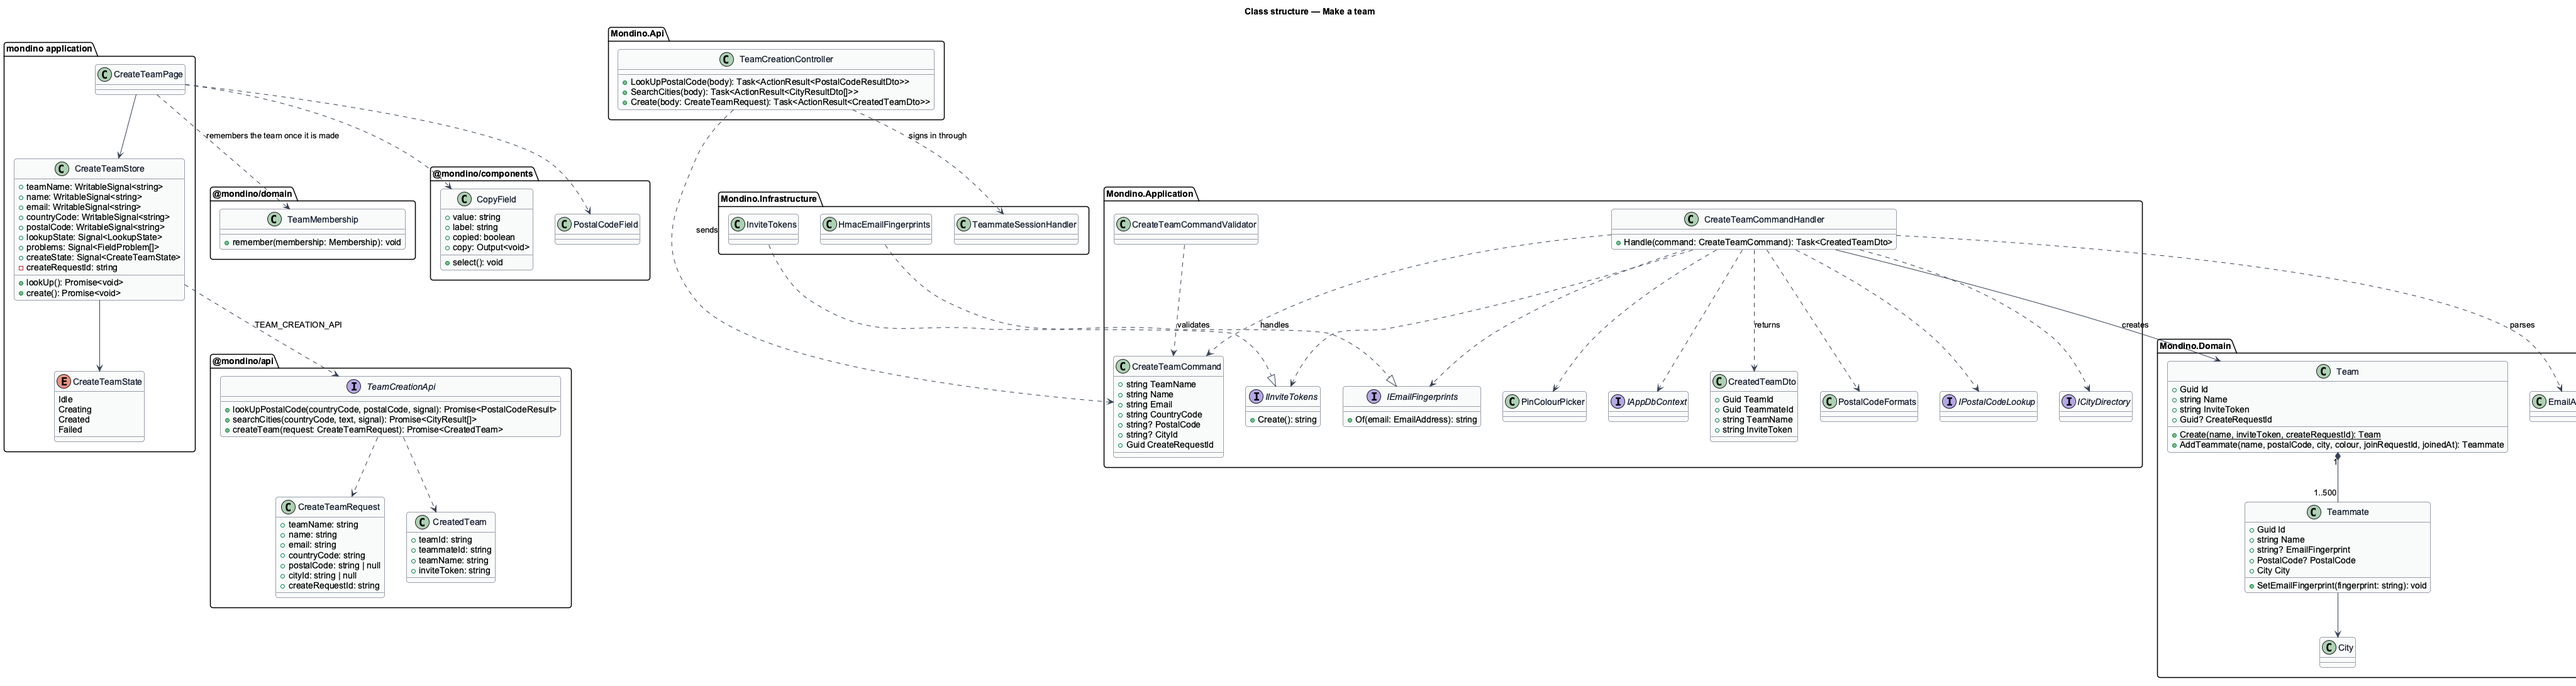
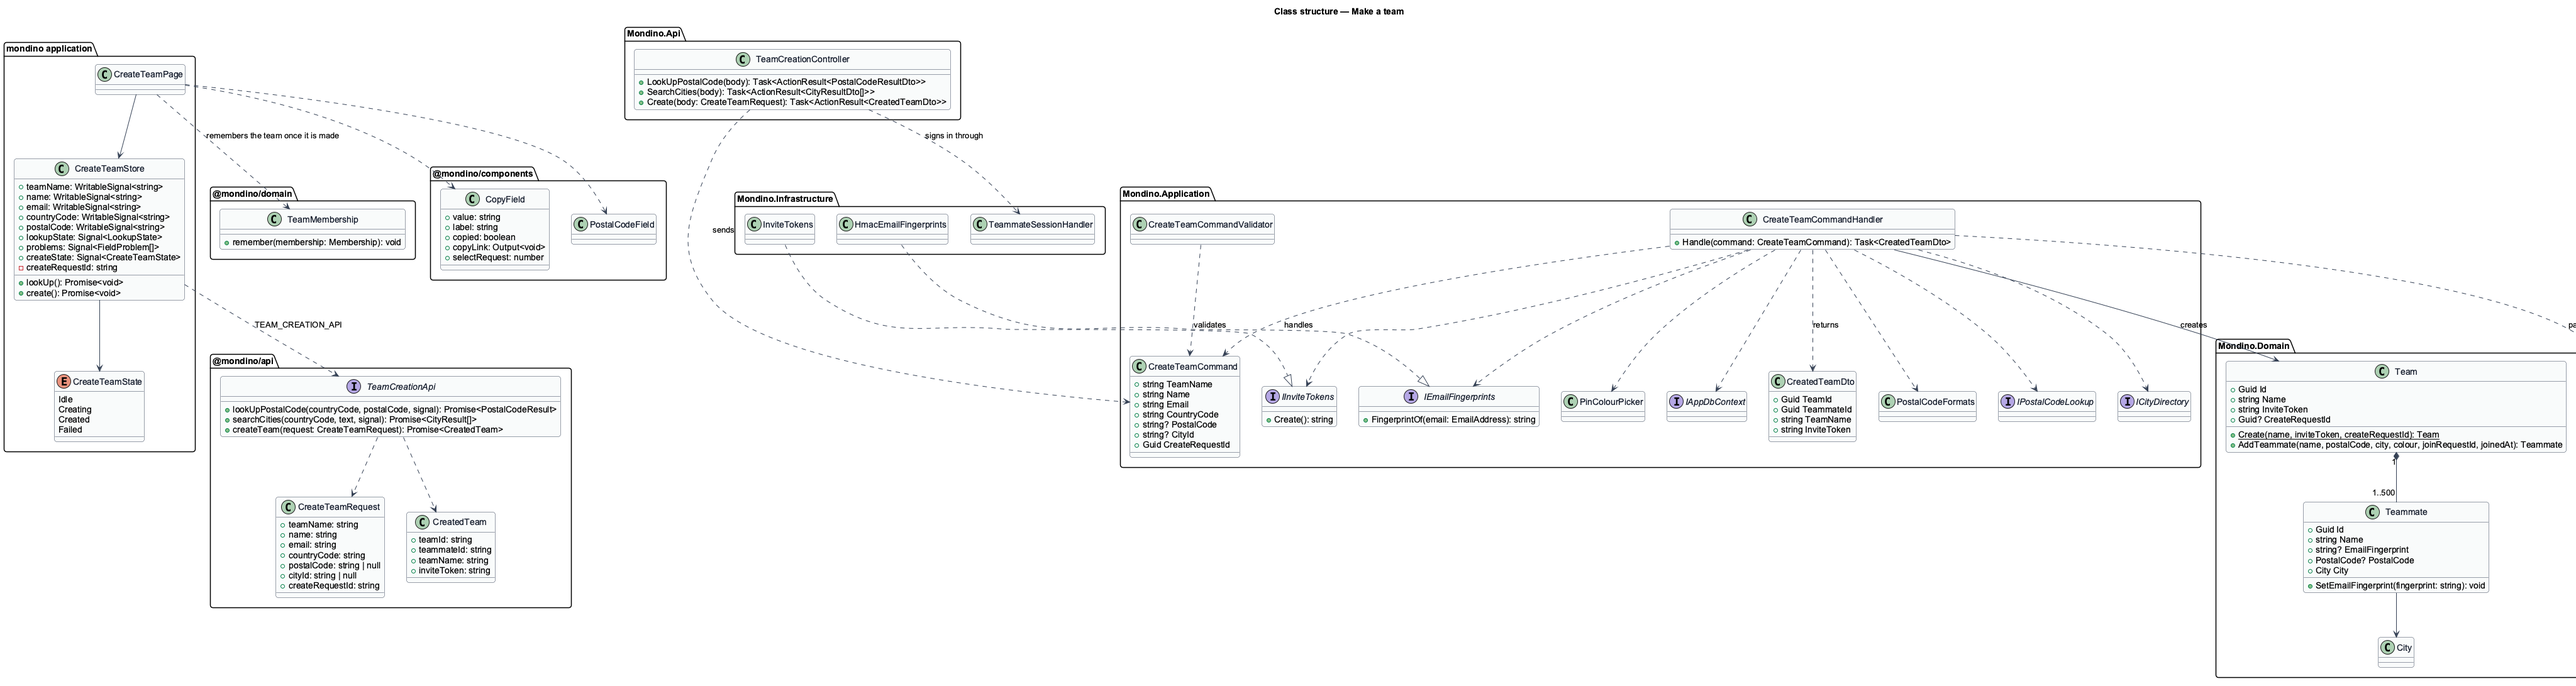
Give the new team's invite link to copy, remember the team and lead on to the globe

diff --git a/frontend/e2e/specs/create-team-created.spec.ts b/frontend/e2e/specs/create-team-created.spec.ts
@@ -1,0 +1,118 @@
+// Acceptance Test
+// Traces to: L2-053, L2-007, L2-042, L2-044
+// Description: Once the team is made, Create Team gives its invite link to copy and the way on to the globe, and keeps no postal code or email
+
+import { expect, test } from '../fixtures/test';
+import { lookupAnswer } from '../fixtures/invites';
+import { CREATE_LOOKUPS, NEW_INVITE_TOKEN, NORTHWIND_CREATED, TEAMS } from '../fixtures/teams';
+
+test.describe('Create Team: the team is made', () => {
+  test.beforeEach(({ api }) => {
+    api.answer('POST', CREATE_LOOKUPS, (route) => lookupAnswer(route.request().postDataJSON()));
+    api.answer('POST', TEAMS, NORTHWIND_CREATED);
+  });
+
+  async function make(createTeamPage: import('../pages/create-team.page').CreateTeamPage) {
+    await createTeamPage.open();
+    await createTeamPage.fillNorthwind();
+    await createTeamPage.leavePostalCode();
+    await expect(createTeamPage.lookup).toHaveText('Milan, Lombardy — pinned at city level.');
+    await createTeamPage.submit.click();
+    await expect(createTeamPage.title).toHaveText('Now bring everyone in.');
+  }
+
+  test('it reads "Northwind is on the map", gives the invite link and the way on, and focus is on the title', async ({
+    createTeamPage,
+  }) => {
+    await make(createTeamPage);
+
+    await expect(createTeamPage.kicker).toHaveText('Northwind is on the map');
+    await expect(createTeamPage.kicker).toHaveAttribute('role', 'status');
+    await expect(createTeamPage.title).toBeFocused();
+    await expect(createTeamPage.lead).toHaveText(
+      'Send this link to your team. Each person places their own pin with a postal code.',
+    );
+    await expect(createTeamPage.inviteLink).toHaveValue(`127.0.0.1:4310/join/${NEW_INVITE_TOKEN}`);
+    await expect(createTeamPage.inviteLink).toHaveAttribute('readonly', '');
+    await expect(createTeamPage.copyLink).toHaveText('Copy link');
+    await expect(createTeamPage.goToTheGlobe).toHaveAttribute('href', '/globe');
+    await expect(createTeamPage.form).toHaveCount(0);
+    await expect(createTeamPage.footer).toHaveText('Already have a team? Sign in');
+
+    // And the new pin is on the globe, labelled and pulsing
+    await expect(createTeamPage.youLabel).toHaveText('You · Milan');
+    expect(await createTeamPage.pulse()).not.toBe('none');
+  });
+
+  test('the new pin does not pulse under reduced motion', async ({ createTeamPage }) => {
+    await createTeamPage.page.emulateMedia({ reducedMotion: 'reduce' });
+    await make(createTeamPage);
+
+    await expect(createTeamPage.youPin).toBeVisible();
+    expect(await createTeamPage.pulse()).toBe('none');
+  });
+
+  test('"Copy link" puts the invite link on the clipboard and reads "Copied"', async ({
+    createTeamPage,
+  }) => {
+    await createTeamPage.page
+      .context()
+      .grantPermissions(['clipboard-read', 'clipboard-write'], { origin: 'http://127.0.0.1:4310' });
+    await make(createTeamPage);
+
+    await createTeamPage.copyLink.click();
+
+    await expect(createTeamPage.copyLink).toHaveText('Copied');
+    expect(await createTeamPage.clipboardText()).toBe(
+      `http://127.0.0.1:4310/join/${NEW_INVITE_TOKEN}`,
+    );
+  });
+
+  test('a copy the browser refuses selects the link and says how to copy it', async ({
+    createTeamPage,
+  }) => {
+    await createTeamPage.refuseCopy();
+    await make(createTeamPage);
+
+    await createTeamPage.copyLink.click();
+
+    await expect(createTeamPage.inviteLink).toBeFocused();
+    expect(await createTeamPage.selectedText()).toBe(`127.0.0.1:4310/join/${NEW_INVITE_TOKEN}`);
+    await expect(createTeamPage.toast).toHaveText(
+      'Couldn’t copy the link. It’s selected — press Ctrl+C or ⌘C to copy it yourself.',
+    );
+    await expect(createTeamPage.toast).toHaveClass(/toast--danger/);
+    await expect(createTeamPage.copyLink).toHaveText('Copy link');
+
+    // And it stays until it is dismissed
+    await createTeamPage.page.clock.runFor(10_000);
+    await expect(createTeamPage.toast).toBeVisible();
+    await createTeamPage.dismissToast.click();
+    await expect(createTeamPage.toast).toHaveCount(0);
+  });
+
+  test('the team is remembered by its ids and name, and no postal code or email is kept', async ({
+    createTeamPage,
+  }) => {
+    await make(createTeamPage);
+
+    expect(await createTeamPage.membership()).toEqual({
+      teamId: 'c8a2f0de-5b1e-4f7c-9a3d-2e6b8f1c4d07',
+      teammateId: '5f3e9b2a-7c41-4d8e-b6a0-91d2c7e4f318',
+      teamName: 'Northwind',
+    });
+    const kept = await createTeamPage.everythingKept();
+    expect(kept).not.toContain('20121');
+    expect(kept).not.toContain('sofia@');
+    await expect(createTeamPage.page).toHaveURL('/new');
+  });
+
+  test('"Go to the globe" opens the Globe', async ({ createTeamPage, globePage }) => {
+    await make(createTeamPage);
+
+    await createTeamPage.goToTheGlobe.click();
+
+    await expect(globePage.page).toHaveURL('/globe');
+    await expect(globePage.globe).toBeVisible();
+  });
+});

diff --git a/docs/detailed-designs/joining/make-team/README.md b/docs/detailed-designs/joining/make-team/README.md
@@ -71,8 +71,8 @@ sources, the Postal code source and Open-Meteo. The browser calls only the Mondi
     `teamId`, `teammateId` and `teamName` of the `CreatedTeam`.
   - "Copy link" copies the invite link through `CLIPBOARD` (`navigator.clipboard.writeText`,
     ADR 0009). When the copy succeeds the
-    button reads "Copied", with a tick. When the browser refuses it, the page calls
-    `CopyField.select()` and shows the `Toast` of the invite dialog, which stays: "Couldn’t
+    button reads "Copied", with a tick. When the browser refuses it, the page raises
+    `CopyField`'s `selectRequest` and shows the `Toast` of the invite dialog, which stays: "Couldn’t
     copy the link. It’s selected — press Ctrl+C or ⌘C to copy it yourself."
     (`invite-teammates`).
 - **`CreateTeamStore`** — service provided at the `/new` route, so its state goes when the
@@ -108,8 +108,8 @@ sources, the Postal code source and Open-Meteo. The browser calls only the Mondi
   `navigator.clipboard.writeText`.
 - **`CopyField`** (`mo-copy-field`, block `copy-field`) — presentation component in
   `@mondino/components`: a read-only input with the link (`copy-field__value`) and a button.
-  Its inputs are `value`, `label` and `copied`; it emits `copy`, and `select()` selects the
-  link and moves focus to it. The invite dialog uses the same component.
+  Its inputs are `value`, `label`, `copied` and `selectRequest`; it emits `copyLink`, and each
+  new `selectRequest` selects the link and moves focus to it. The invite dialog uses the same component.
 - **`GlobeView`** (`mo-globe`) — imported dynamically inside a `@defer` block, not interactive.
   It has no pins until a city is found ("The globe, with no pins"). Once it is found, and in
   `Created`, the page passes it the maker's pin, selected and marked as new, so the globe turns
@@ -152,7 +152,7 @@ sources, the Postal code source and Open-Meteo. The browser calls only the Mondi
      `CreateRequestId`.
   4. It picks the pin's colour with `PinColourPicker`, calls `Team.AddTeammate` with the time
      from `TimeProvider` and sets the teammate's `EmailFingerprint` from
-     `IEmailFingerprints.Of(email)`.
+     `IEmailFingerprints.FingerprintOf(email)`.
   5. It saves through `IAppDbContext` in one unit of work. When the save is rejected by the
      unique index on `Team.CreateRequestId`, it loads the team the other request made and
      returns it.
